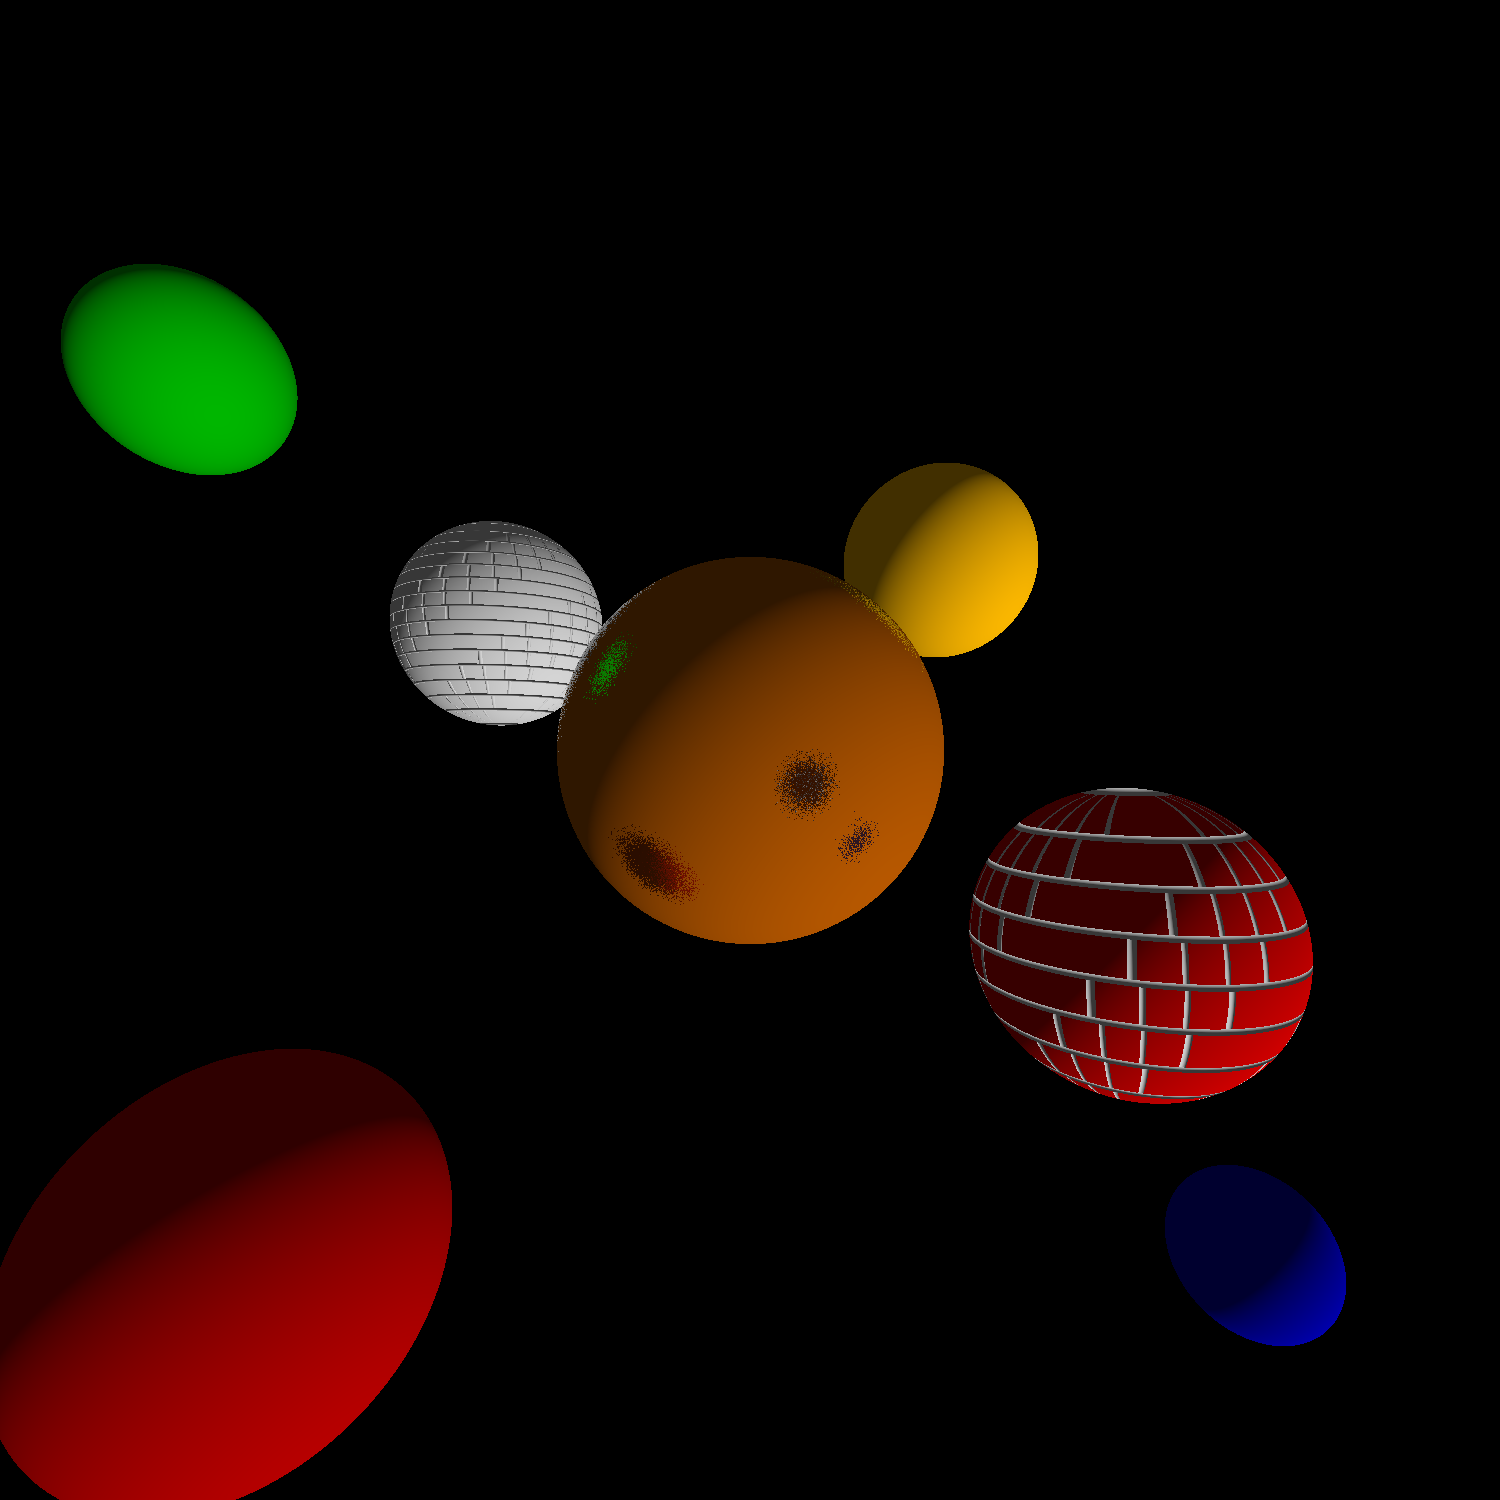
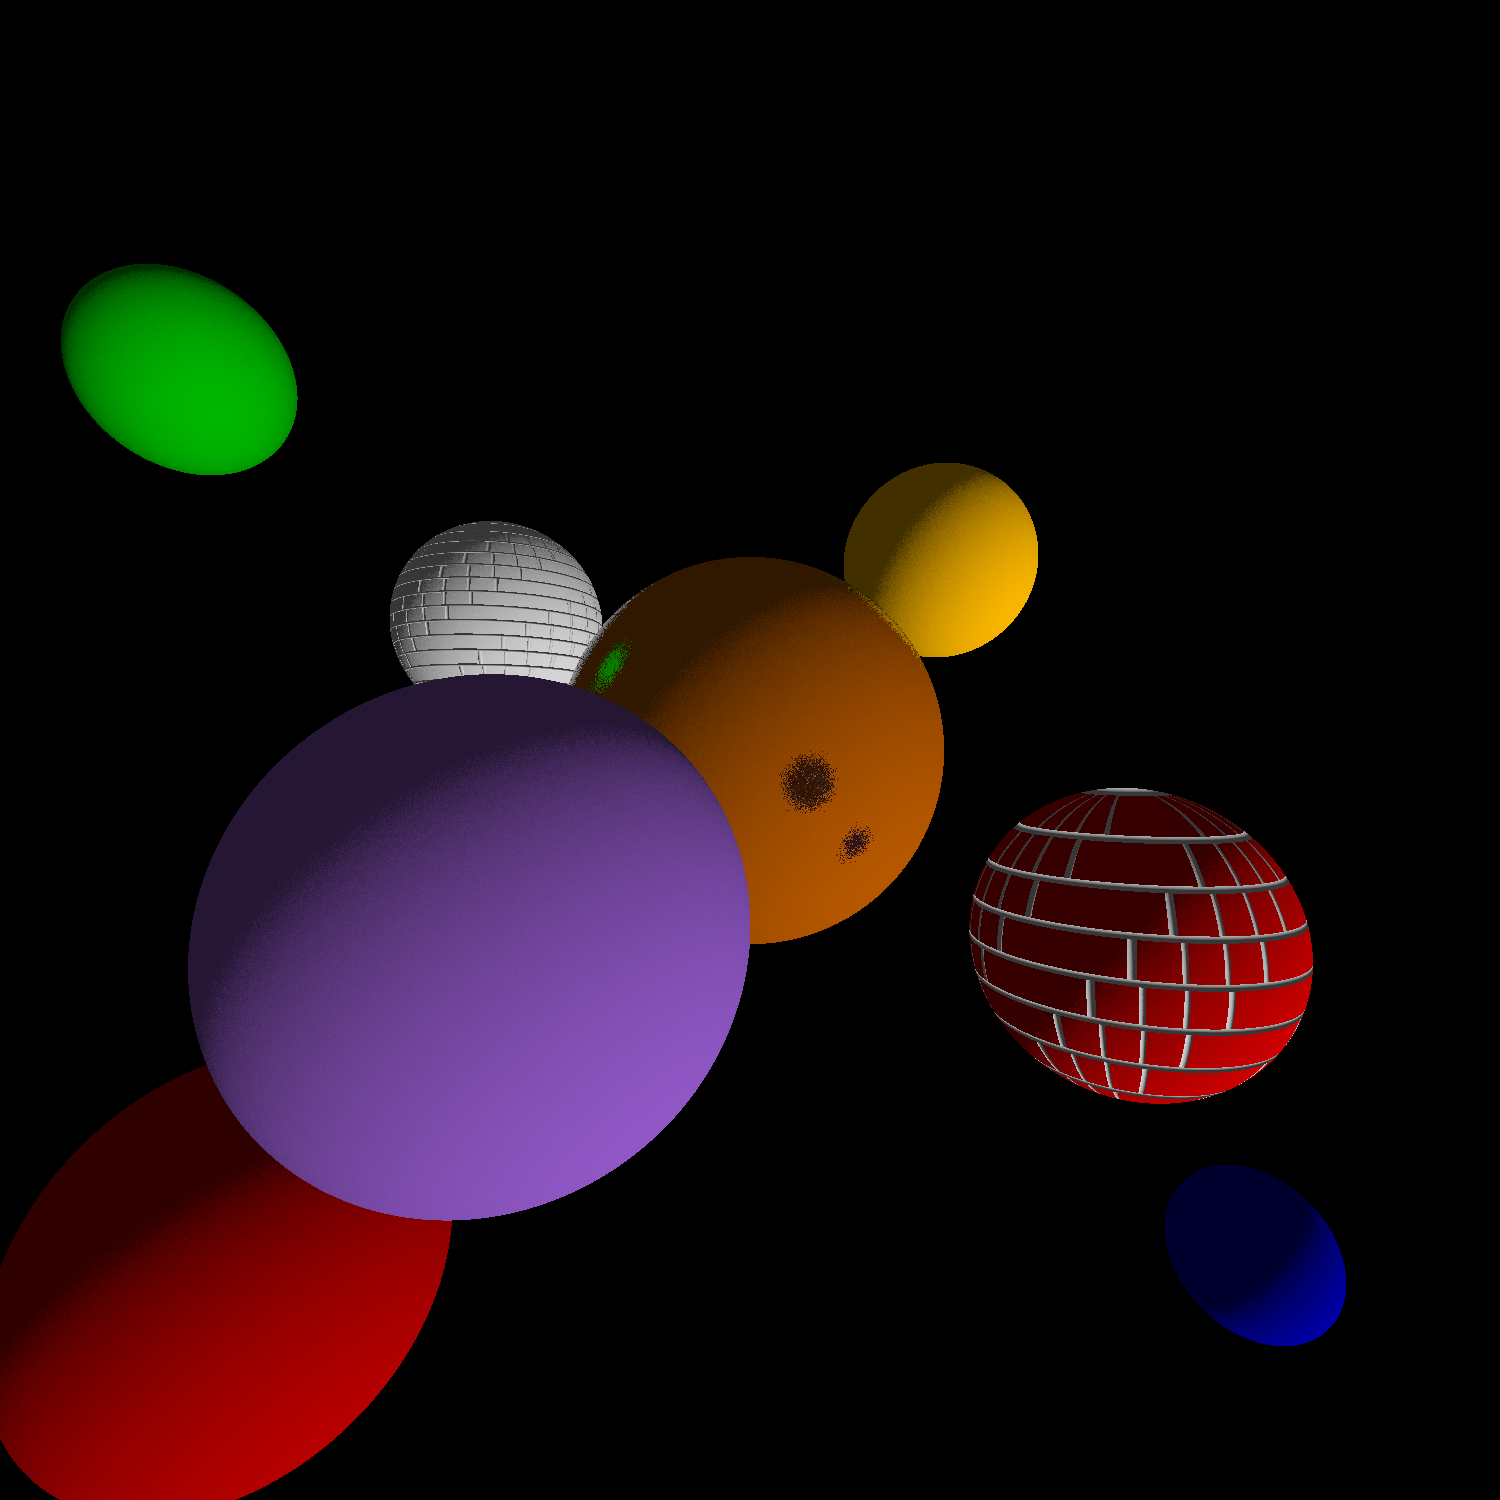
commiting edgy crimez

diff --git a/src/cgg/a02/RayTracer.java b/src/cgg/a02/RayTracer.java
@@ -90,6 +90,8 @@ public class RayTracer implements Sampler
 
 	private static Color shade(Hit hit)
 	{
+		hit.overwriteNormal(randomRoughness(hit.normal(),5));
+		// TODO: find out if shade with roughness is hotter or notter
 		Vec3 lightDir = normalize(vec3(1,1,.7));
 		Color ambient = multiply(.05,hit.colour());
 		Color diffuse = multiply(.9*max(0,dot(lightDir,hit.normal())),hit.colour());
@@ -120,12 +122,9 @@ public class RayTracer implements Sampler
 	private Color shadeReflective(Hit hit)
 	{
 		// calculate reflective bouncing ray
-		double roughness = 15;
 		Vec3 vd = subtract(hit.position(),scene.camera().position());
 		Vec3 __OutBounce = add(vd,multiply(2*dot(multiply(vd,-1),hit.normal()),hit.normal()));
-		__OutBounce = multiplyPoint(Functions.rotate(vec3(1,0,0),Functions.random()*roughness),__OutBounce);
-		__OutBounce = multiplyPoint(Functions.rotate(vec3(0,1,0),Functions.random()*roughness),__OutBounce);
-		__OutBounce = multiplyPoint(Functions.rotate(vec3(0,0,1),Functions.random()*roughness),__OutBounce);
+		__OutBounce = randomRoughness(__OutBounce,10);
 		Ray __Ray = new Ray(hit.position(),__OutBounce,0,10000);
 
 		// receive colour source & combine
@@ -139,8 +138,8 @@ public class RayTracer implements Sampler
 	private Color shadeGlass(Hit hit)
 	{
 		// calculate glass ray deformation
-		/*
-		Ray __Ray = new Ray();
+
+//		Ray __Ray = new Ray();
 
 		// receive colour source & combine
 		/*
@@ -150,7 +149,6 @@ public class RayTracer implements Sampler
 		return shade(hit);
 	}
 
-	// TODO: brickspheres
 	// TODO: semi-transparent volumetric gas spheres in background
 	// TODO: concaving glass balls
 	// TODO: rough spheres

diff --git a/src/tools/Functions.java b/src/tools/Functions.java
@@ -1153,6 +1153,14 @@ public class Functions {
         Random.seed(s);
     }
 
+	public static Vec3 randomRoughness(Vec3 val,double roughness)
+	{
+		Vec3 out = multiplyPoint(rotate(vec3(1,0,0),Functions.random()*roughness),val);
+		out = multiplyPoint(rotate(vec3(0,1,0),Functions.random()*roughness),out);
+		out = multiplyPoint(rotate(vec3(0,0,1),Functions.random()*roughness),out);
+		return out;
+	}
+
     /**
      * Helper method for HSV to RGB conversion.
      * Calculates the RGB color for a given hue value.

diff --git a/src/cgg/a02/Scene.java b/src/cgg/a02/Scene.java
@@ -31,7 +31,7 @@ public class Scene
 
 		// glass setup
 		glass = new ArrayList<Sphere>();
-		//glass.add(new Sphere(vec3(-.5,.35,-1.5),.5,color(vec3(.3,.1,.6))));
+		glass.add(new Sphere(vec3(-.5,.35,-1.5),.5,color(vec3(.3,.1,.6))));
 
 		// reflector setup
 		reflector = new Sphere(vec3(0,0,-4),1,color(vec3(.5,.1,0)));
